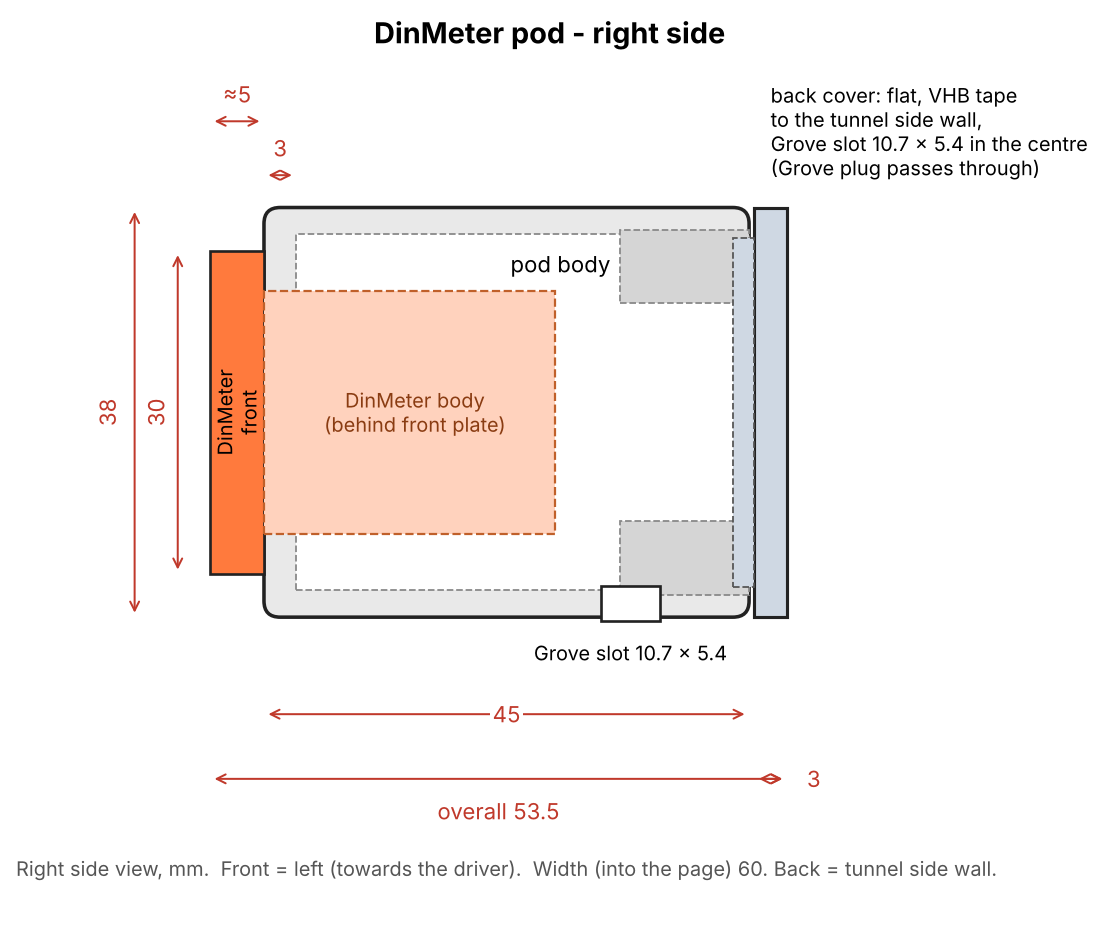
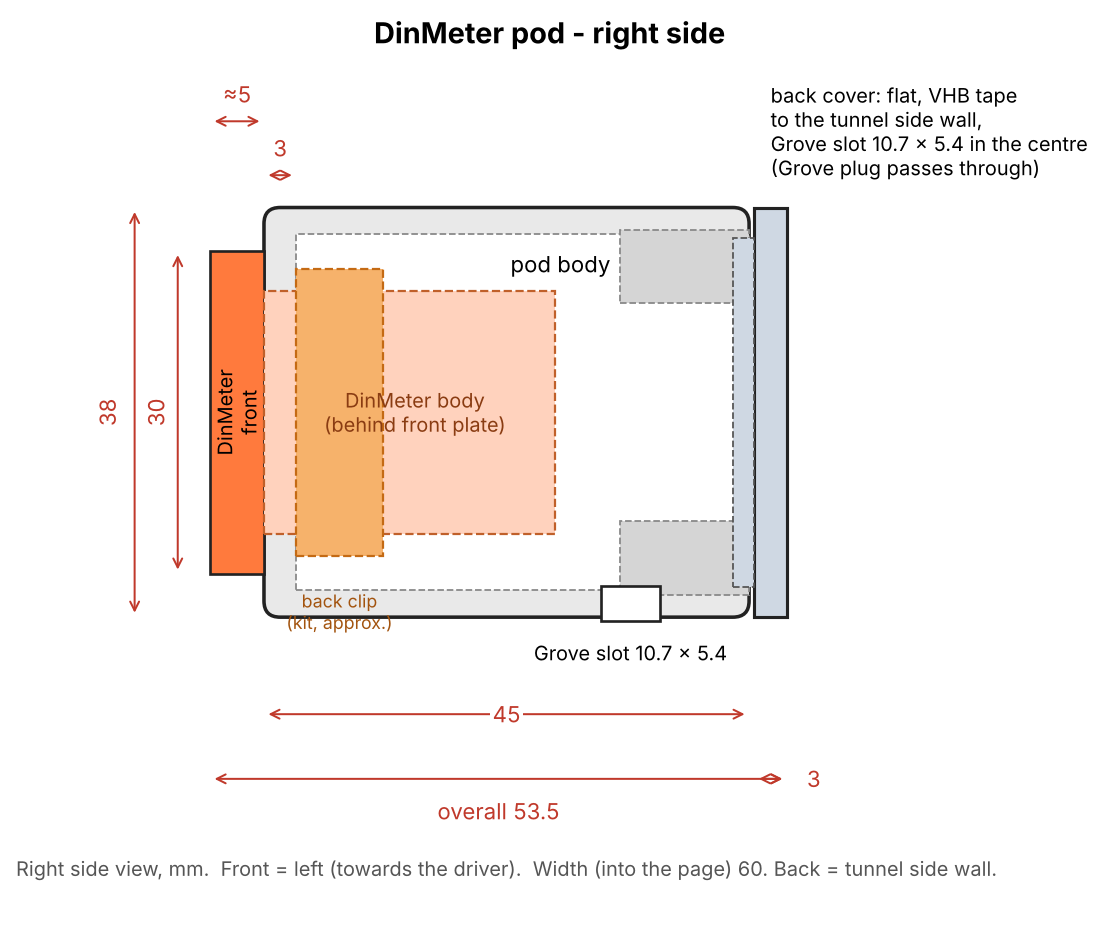
Pod drawings: DinMeter back clip from the kit (approximate, to be measured)
Claude-Session: https://claude.ai/code/session_018z5LvCZ9NFya6WZW91qW8w

Changed region(s): [[0.2466, 0.2791, 0.3699, 0.6824]]

diff --git a/hardware/enclosure/dinmeter_pod/pod3d.html b/hardware/enclosure/dinmeter_pod/pod3d.html
@@ -31,7 +31,7 @@ button:focus-visible,label.tg:focus-within{outline:2px solid var(--accent);outli
     <label class="tg"><input type="checkbox" id="cXray"> X-ray</label>
   </div>
 </header>
-<div id="stage"><div class="legend"><span><i style="background:#3a4250"></i>printed body</span><span><i style="background:#7d8da3"></i>back cover</span><span><i style="background:#e2602a"></i>DinMeter (mock-up)</span></div></div>
+<div id="stage"><div class="legend"><span><i style="background:#3a4250"></i>printed body</span><span><i style="background:#7d8da3"></i>back cover</span><span><i style="background:#e2602a"></i>DinMeter (mock-up)</span><span><i style="background:#f08a24"></i>back clip from the kit (approx.)</span></div></div>
 <script src="https://cdnjs.cloudflare.com/ajax/libs/three.js/r128/three.min.js"></script>
 <script src="https://cdn.jsdelivr.net/npm/three@0.128.0/examples/js/loaders/STLLoader.js"></script>
 <script src="https://cdn.jsdelivr.net/npm/three@0.128.0/examples/js/controls/OrbitControls.js"></script>
@@ -63,6 +63,13 @@ const mOr=new THREE.MeshStandardMaterial({color:0xe2602a,roughness:.55});
 const fr=new THREE.Mesh(new THREE.BoxGeometry(53,30,5),mOr);fr.position.z=-2.5;din.add(fr);
 const bd=new THREE.Mesh(new THREE.BoxGeometry(44.5,22,27),new THREE.MeshStandardMaterial({color:0xf2a37f,roughness:.8}));bd.position.z=13.5;din.add(bd);
 const scr=new THREE.Mesh(new THREE.PlaneGeometry(26,15),new THREE.MeshStandardMaterial({color:0x0c0f12,roughness:.3}));scr.position.set(9,1,-5.05);scr.rotation.y=Math.PI;din.add(scr);
+// DinMeter back clip (orange frame from the M5Stack kit), approximate from the photo: frame around the body
+// right behind the front wall, two ears with brass threaded inserts on opposite corners. Measure the real part.
+const clip=new THREE.Group();din.add(clip);
+const mClip=new THREE.MeshStandardMaterial({color:0xf08a24,roughness:.6});
+[[49,2.2,8,0,12.15],[49,2.2,8,0,-12.15],[2.2,22.1,8,23.4,0],[2.2,22.1,8,-23.4,0]].forEach(p=>{const m=new THREE.Mesh(new THREE.BoxGeometry(p[0],p[1],p[2]),mClip);m.position.set(p[3],p[4],3+4);clip.add(m)});
+[[-1,1],[1,-1]].forEach(([sx,sy])=>{const ear=new THREE.Mesh(new THREE.BoxGeometry(8,8,8),mClip);ear.position.set(sx*27,sy*9.5,3+4);clip.add(ear);
+  const ins=new THREE.Mesh(new THREE.CylinderGeometry(2.4,2.4,8.2,24),new THREE.MeshStandardMaterial({color:0xc9a227,metalness:.8,roughness:.3}));ins.rotation.x=Math.PI/2;ins.position.set(sx*27,sy*9.5,3+4);clip.add(ins)});
 const knob=new THREE.Mesh(new THREE.CylinderGeometry(7,7,7,40),new THREE.MeshStandardMaterial({color:0xd8d8d8,roughness:.35,metalness:.4}));knob.rotation.x=Math.PI/2;knob.position.set(-15,0,-8.5);din.add(knob);
 // screen digits as a tiny canvas texture
 (function(){const c=document.createElement('canvas');c.width=260;c.height=150;const g=c.getContext('2d');g.fillStyle='#0c0f12';g.fillRect(0,0,260,150);g.fillStyle='#b6f34a';g.font='bold 84px monospace';g.textAlign='center';g.fillText('2.3',130,98);g.fillStyle='#9aa';g.font='22px sans-serif';g.fillText('bar',130,132);

diff --git a/hardware/enclosure/dinmeter_pod/side_view.py b/hardware/enclosure/dinmeter_pod/side_view.py
@@ -24,6 +24,9 @@ ax.add_patch(Rectangle((D-1.5,-H/2+T+0.3),2,H-2*T-0.6,fc='#cfd8e3',ec='#555',lw=
 # DinMeter: front bezel + body behind the 45x22.5 cutout
 ax.add_patch(Rectangle((-5,-15),5,30,fc='#ff7a3d',ec=k,lw=1.2))
 ax.add_patch(Rectangle((0,-11.25),27,22.5,fc='#ffd2bd',ec='#c0602a',lw=1,ls='--'))
+# back clip from the kit (approximate): frame right behind the front wall, ~8 deep, ears to about +/-9.5 high
+ax.add_patch(Rectangle((F,-13.3),8,26.6,fc='#f6b26b',ec='#c46a14',lw=1,ls='--'))
+ax.text(F+4,-16.5,'back clip\n(kit, approx.)',ha='center',va='top',fontsize=8,color='#a3540f')
 ax.text(-2.5,0,'DinMeter\nfront',rotation=90,ha='center',va='center',fontsize=9)
 ax.text(14,0,'DinMeter body\n(behind front plate)',ha='center',va='center',fontsize=9,color='#8a3c12')
 ax.text(D/2+5,H/2-6,'pod body',fontsize=10,ha='center')
